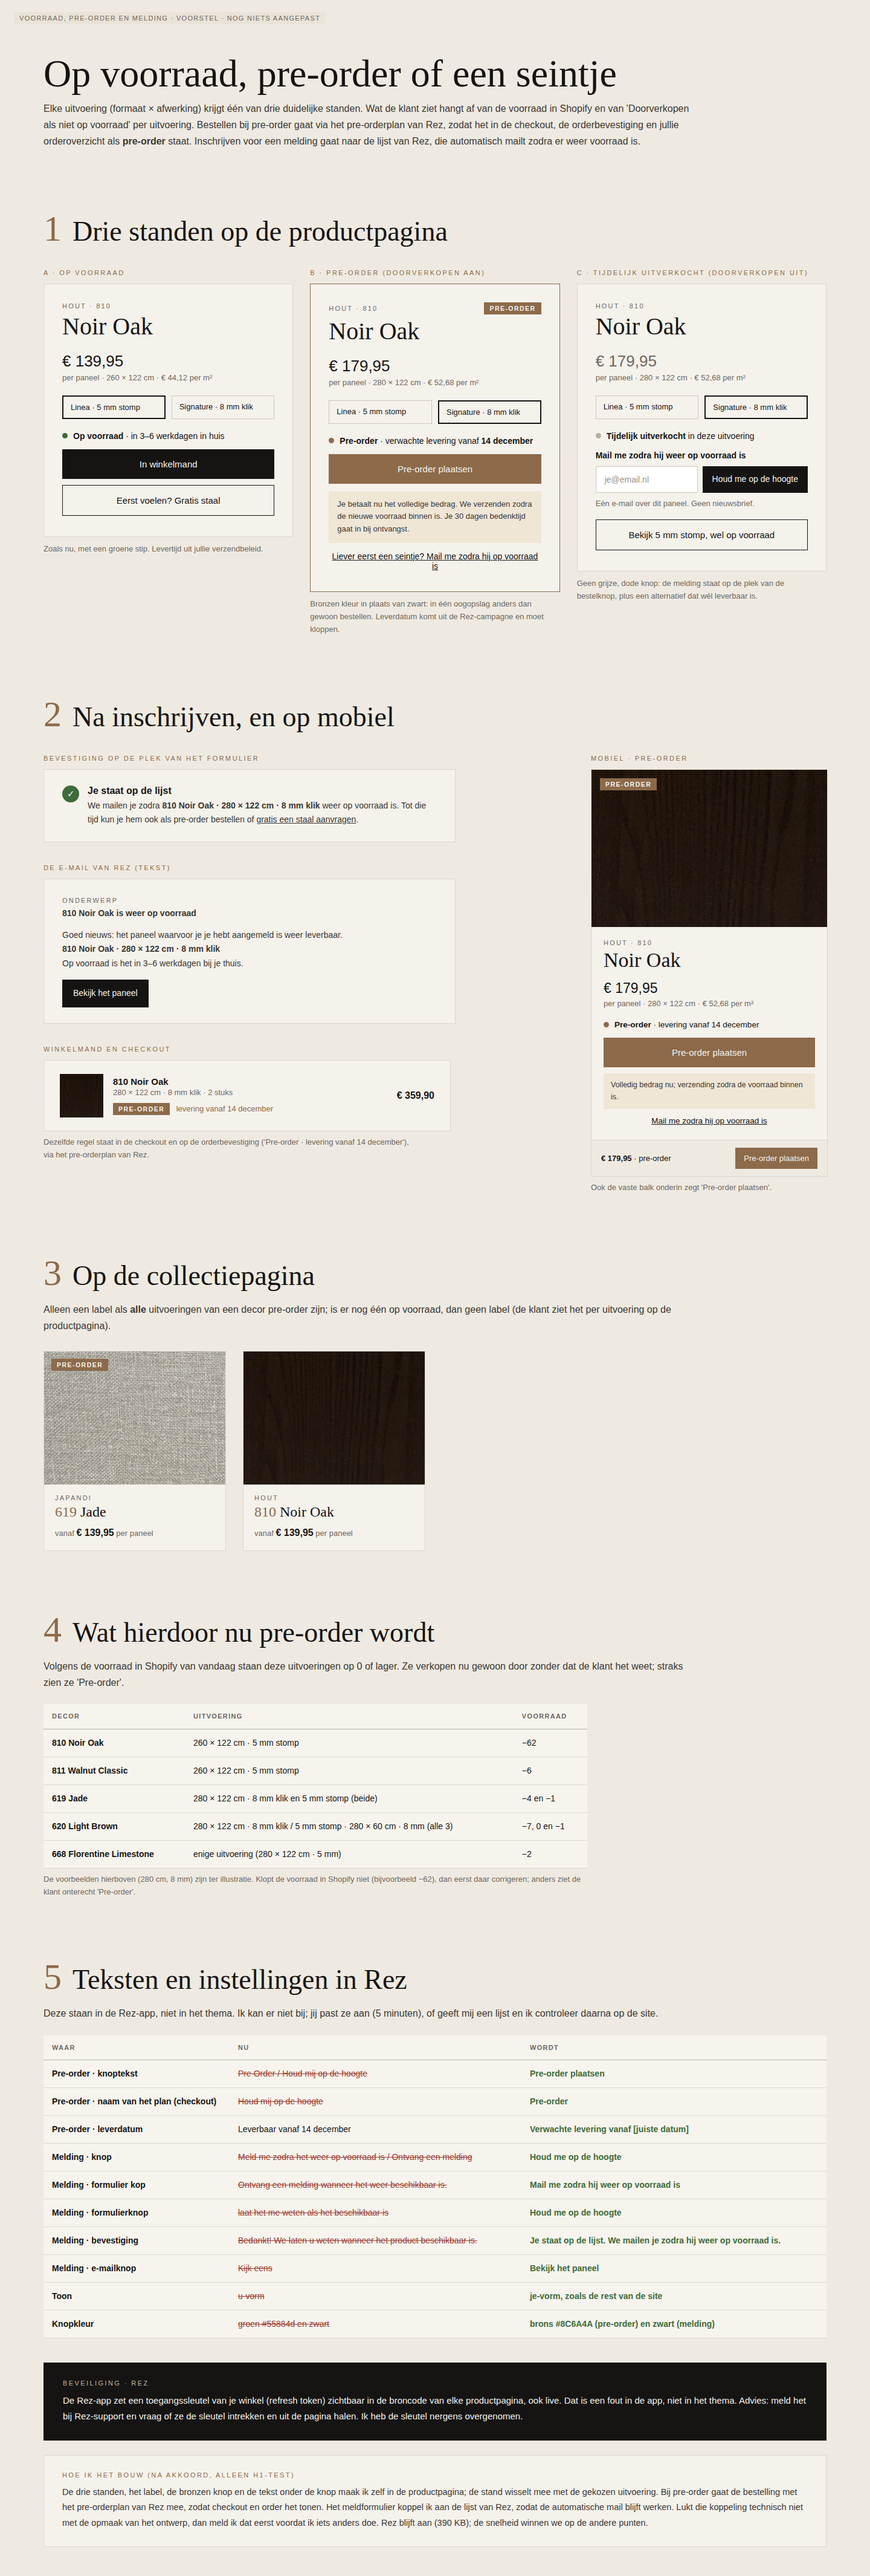
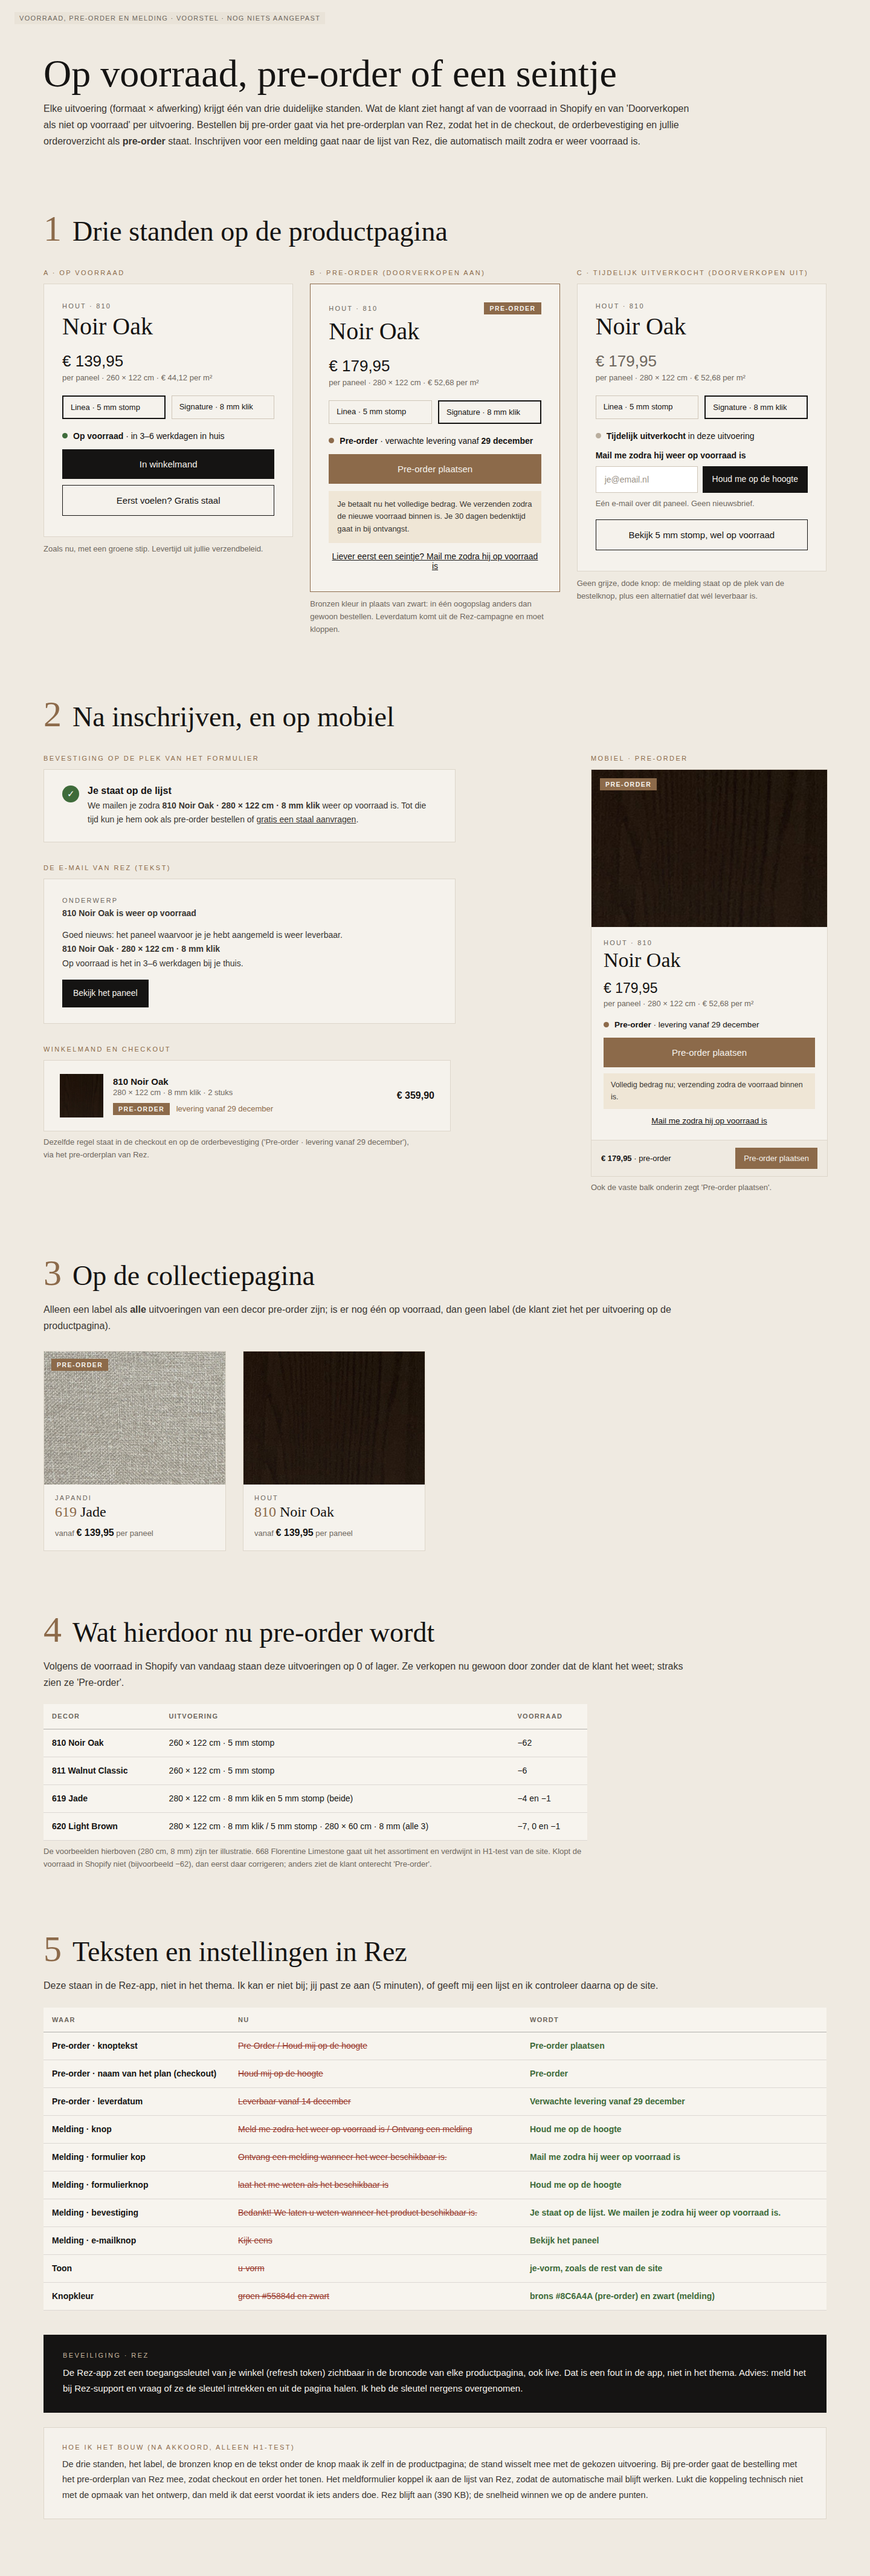
Artboard Afrekenknop (met/zonder); Voorraad: levering vanaf 29 december, 668 uit assortiment
Claude-Session: https://claude.ai/code/session_01Tr9HDAqx5rbsuHBhnEqEEG

Changed region(s): [[0.0312, 0.6556, 0.9688, 0.9991], [0.8438, 0.843, 0.875, 0.8742]]

diff --git a/docs/ontwerp-puredeco-finish/Afrekenknop.dc.html b/docs/ontwerp-puredeco-finish/Afrekenknop.dc.html
@@ -1,0 +1,129 @@
+<!doctype html>
+<html lang="nl">
+<head>
+<meta charset="utf-8">
+<title>Snelle afrekenknop</title>
+<script src="./support.js"></script>
+</head>
+<body>
+<x-dc>
+<helmet>
+<link rel="stylesheet" href="https://fonts.googleapis.com/css2?family=Cormorant:ital,wght@0,500;0,600;1,500&amp;family=Instrument+Sans:wght@400;500;600&amp;display=swap">
+<style>
+body{margin:0}
+.s{font-family:'Cormorant',Georgia,serif;font-weight:500}
+.k{font-size:11px;letter-spacing:.22em;text-transform:uppercase;color:#8C6A4A}
+.tag{position:absolute;font-size:11px;letter-spacing:.12em;text-transform:uppercase;background:#E9E3D8;color:#6E675E;padding:4px 8px;z-index:3}
+.h2{font-family:'Cormorant',Georgia,serif;font-weight:500;font-size:46px;line-height:1.05;margin:0}
+.lead{font-size:16px;line-height:1.7;color:#3A3733;max-width:1080px;margin-top:12px}
+.box{background:#F5F2EC;border:1px solid #DDD6CA}
+.note{font-size:13px;line-height:1.6;color:#6E675E}
+.eyeb{font-size:11px;letter-spacing:.2em;text-transform:uppercase;color:#6E675E}
+.fin{display:grid;grid-template-columns:1fr 1fr;gap:10px;margin-top:20px}
+.fin div{border:1px solid #CFC6B8;padding:10px 12px;font-size:13px}
+.fin div.on{border:2px solid #151413}
+.btn{display:block;text-align:center;padding:16px;font-size:15px;font-weight:500;margin-top:12px}
+.ink{background:#151413;color:#F5F2EC}
+.line{border:1px solid #151413;color:#151413}
+.shop{background:#5A31F4;color:#fff;font-weight:600;letter-spacing:.01em}
+.calc{display:grid;grid-template-columns:1fr 1fr;gap:10px;margin-top:18px}
+.calc div{border:1px solid #CFC6B8;background:#fff;padding:11px 12px;font-size:13px;color:#6E675E}
+.pro{color:#3E6B3A}.con{color:#9A3B2E}
+ul.l{margin:10px 0 0;padding-left:18px;font-size:14.5px;line-height:1.7;color:#3A3733}
+</style>
+</helmet>
+<div style="width:1440px;height:1780px;position:relative;overflow:hidden;background:#EFEAE1;color:#151413;font-family:'Instrument Sans','Helvetica Neue',Arial,sans-serif">
+<div class="tag" style="left:24px;top:20px">Snelle afrekenknop · met en zonder · nog niets aangepast</div>
+<div style="padding:90px 72px 80px">
+
+<div class="s" style="font-size:64px;line-height:1">Met of zonder snelle afrekenknop</div>
+<div class="lead">De snelle afrekenknop ('Kopen met Shop Pay', op iPhone 'Apple Pay', in Chrome 'Google Pay') slaat de winkelwagen over en gaat direct naar betalen. <b>Op de productpagina staat hij nu nergens, live ook niet.</b> Hij zit alleen in het verborgen venster 'snel bekijken', dat niemand ziet, maar laadt daardoor wel op elke pagina 385 KB code. Links hoe de productpagina er nu uitziet, rechts met de knop erbij.</div>
+
+<div style="display:grid;grid-template-columns:1fr 1fr;gap:48px;margin-top:48px;align-items:start">
+
+<!-- ZONDER -->
+<div>
+<div style="display:flex;align-items:baseline;gap:14px"><span class="s" style="font-size:52px;color:#8C6A4A">A</span><span class="s" style="font-size:38px">Zonder</span><span class="note">zoals H1-test nu · advies</span></div>
+<div class="box" style="padding:34px 36px 38px;margin-top:16px">
+<div class="eyeb">Hout · 810</div>
+<div class="s" style="font-size:44px;line-height:1;margin-top:8px">Noir Oak</div>
+<div style="font-size:26px;font-weight:500;margin-top:22px">€ 179,95</div>
+<div class="note">per paneel · 280 × 122 cm · € 52,68 per m²</div>
+<div class="fin"><div>Linea · 5 mm stomp</div><div class="on">Signature · 8 mm klik</div></div>
+<div class="calc"><div>Breedte wand · 4,50 m</div><div>Hoogte · 2,60 m</div></div>
+<div style="font-size:14px;margin-top:12px"><b>4 panelen</b> · € 719,80</div>
+<div style="display:flex;align-items:center;gap:9px;font-size:14px;margin-top:16px"><span style="width:9px;height:9px;border-radius:50%;background:#3E6B3A"></span><span><b>Op voorraad</b> · in 3–6 werkdagen in huis</span></div>
+<div class="btn ink">In winkelmand</div>
+<div class="btn line" style="margin-top:10px">Eerst voelen? Gratis staal</div>
+<div class="note" style="margin-top:14px;text-align:center">In de winkelwagen en checkout: iDEAL, Shop Pay, Apple Pay, Google Pay en meer.</div>
+</div>
+<ul class="l">
+<li class="pro">Rustig en premium: één duidelijke knop, staal als tweede stap.</li>
+<li class="pro">Klant ziet in de winkelwagen nog montagekit en profielen; minder kans op vergeten accessoires.</li>
+<li class="pro">385 KB minder code op elke pagina (sneller, vooral mobiel).</li>
+<li class="con">Eén klik meer voor wie meteen wil betalen.</li>
+</ul>
+</div>
+
+<!-- MET -->
+<div>
+<div style="display:flex;align-items:baseline;gap:14px"><span class="s" style="font-size:52px;color:#8C6A4A">B</span><span class="s" style="font-size:38px">Met snelle afrekenknop</span></div>
+<div class="box" style="padding:34px 36px 38px;margin-top:16px">
+<div class="eyeb">Hout · 810</div>
+<div class="s" style="font-size:44px;line-height:1;margin-top:8px">Noir Oak</div>
+<div style="font-size:26px;font-weight:500;margin-top:22px">€ 179,95</div>
+<div class="note">per paneel · 280 × 122 cm · € 52,68 per m²</div>
+<div class="fin"><div>Linea · 5 mm stomp</div><div class="on">Signature · 8 mm klik</div></div>
+<div class="calc"><div>Breedte wand · 4,50 m</div><div>Hoogte · 2,60 m</div></div>
+<div style="font-size:14px;margin-top:12px"><b>4 panelen</b> · € 719,80</div>
+<div style="display:flex;align-items:center;gap:9px;font-size:14px;margin-top:16px"><span style="width:9px;height:9px;border-radius:50%;background:#3E6B3A"></span><span><b>Op voorraad</b> · in 3–6 werkdagen in huis</span></div>
+<div class="btn line">In winkelmand</div>
+<div class="btn shop">Kopen met <span style="font-style:italic;font-weight:700">shop</span></div>
+<div style="text-align:center;font-size:13px;margin-top:8px"><u>Meer betaalopties</u></div>
+<div class="btn line" style="margin-top:12px;border-color:#CFC6B8;color:#6E675E">Eerst voelen? Gratis staal</div>
+</div>
+<ul class="l">
+<li class="pro">Snel afrekenen voor wie al een Shop Pay-, Apple Pay- of Google Pay-account heeft.</li>
+<li class="con">De paarse (of zwarte Apple Pay) knop valt op en trekt de aandacht weg van 'In winkelmand' en het gratis staal; minder rustig.</li>
+<li class="con">Slaat de winkelwagen over: geen montagekit of profielen erbij.</li>
+<li class="con">385 KB extra code op de productpagina.</li>
+<li class="con">Kleur en vorm van de knop bepaalt Shopify; alleen beperkt aan te passen.</li>
+</ul>
+</div>
+</div>
+
+<!-- Mobiel -->
+<div style="margin-top:80px;display:flex;align-items:baseline;gap:18px"><span class="s" style="font-size:60px;color:#8C6A4A">·</span><span class="h2">Op mobiel</span></div>
+<div style="display:flex;gap:48px;margin-top:28px;align-items:flex-start">
+<div>
+<div class="k" style="margin-bottom:10px">A · Zonder</div>
+<div style="width:360px;background:#F5F2EC;border:1px solid #DDD6CA;padding:20px">
+<div style="font-size:23px;font-weight:500">€ 179,95</div><div class="note">per paneel · € 52,68 per m²</div>
+<div class="btn ink">In winkelmand</div>
+<div class="btn line" style="margin-top:8px">Eerst voelen? Gratis staal</div>
+</div>
+<div style="width:360px;border:1px solid #DDD6CA;border-top:0;background:#EFEAE1;padding:12px 20px;display:flex;justify-content:space-between;align-items:center;font-size:13px"><span><b>€ 179,95</b> · 8 mm</span><span style="background:#151413;color:#F5F2EC;padding:10px 14px">In winkelmand</span></div>
+</div>
+<div>
+<div class="k" style="margin-bottom:10px">B · Met</div>
+<div style="width:360px;background:#F5F2EC;border:1px solid #DDD6CA;padding:20px">
+<div style="font-size:23px;font-weight:500">€ 179,95</div><div class="note">per paneel · € 52,68 per m²</div>
+<div class="btn line">In winkelmand</div>
+<div class="btn" style="background:#000;color:#fff;font-weight:600">Apple Pay</div>
+<div style="text-align:center;font-size:12.5px;margin-top:6px"><u>Meer betaalopties</u></div>
+<div class="btn line" style="margin-top:8px;border-color:#CFC6B8;color:#6E675E">Eerst voelen? Gratis staal</div>
+</div>
+<div class="note" style="width:360px;margin-top:8px">Op een iPhone wordt het de zwarte Apple Pay-knop, op Android Google Pay, elders Shop Pay.</div>
+</div>
+<div style="flex:1;padding-top:30px">
+<div class="box" style="padding:26px 30px">
+<div class="k">Advies</div>
+<div style="font-size:15px;line-height:1.7;color:#3A3733;margin-top:10px"><b>A, zonder.</b> Panelen koop je na het uitrekenen van je wand en vaak samen met montagekit en profielen; de winkelwagen helpt daarbij en alle snelle betaalmethodes staan in de checkout. Het verborgen 'snel bekijken' gaat eruit, en daarmee de 385 KB. Kies je toch B, dan zet ik de knop onder 'In winkelmand' zoals rechts.</div>
+</div>
+</div>
+</div>
+
+</div></div>
+</x-dc>
+</body>
+</html>

diff --git a/docs/ontwerp-puredeco-finish/Voorraad.dc.html b/docs/ontwerp-puredeco-finish/Voorraad.dc.html
@@ -78,7 +78,7 @@ body{margin:0}
 <div class="price" style="margin-top:22px">€ 179,95</div>
 <div class="unit">per paneel · 280 × 122 cm · € 52,68 per m²</div>
 <div class="fin"><div>Linea · 5 mm stomp</div><div class="on">Signature · 8 mm klik</div></div>
-<div class="stock"><span class="dot" style="background:#8C6A4A"></span><span><b>Pre-order</b> · verwachte levering vanaf <b>14 december</b></span></div>
+<div class="stock"><span class="dot" style="background:#8C6A4A"></span><span><b>Pre-order</b> · verwachte levering vanaf <b>29 december</b></span></div>
 <div class="btn btn-ink" style="background:#8C6A4A">Pre-order plaatsen</div>
 <div style="font-size:13px;line-height:1.6;color:#3A3733;margin-top:12px;background:#EFE6D6;padding:12px 14px">Je betaalt nu het volledige bedrag. We verzenden zodra de nieuwe voorraad binnen is. Je 30 dagen bedenktijd gaat in bij ontvangst.</div>
 <div style="margin-top:14px;font-size:14px;text-align:center"><u>Liever eerst een seintje? Mail me zodra hij op voorraad is</u></div>
@@ -122,10 +122,10 @@ Goed nieuws: het paneel waarvoor je je hebt aangemeld is weer leverbaar.<br><b>8
 <div class="k" style="margin:36px 0 12px">Winkelmand en checkout</div>
 <div class="box" style="padding:22px 26px;max-width:620px;display:grid;grid-template-columns:72px 1fr auto;gap:16px;align-items:center">
 <div style="width:72px;height:72px;background:url(../../media/stalen/staal-810.jpg) center/cover"></div>
-<div><div style="font-weight:600;font-size:15px">810 Noir Oak</div><div class="note">280 × 122 cm · 8 mm klik · 2 stuks</div><div style="margin-top:6px"><span class="pill pre">Pre-order</span> <span style="font-size:13px;color:#8C6A4A;margin-left:6px">levering vanaf 14 december</span></div></div>
+<div><div style="font-weight:600;font-size:15px">810 Noir Oak</div><div class="note">280 × 122 cm · 8 mm klik · 2 stuks</div><div style="margin-top:6px"><span class="pill pre">Pre-order</span> <span style="font-size:13px;color:#8C6A4A;margin-left:6px">levering vanaf 29 december</span></div></div>
 <div style="font-weight:600">€ 359,90</div>
 </div>
-<div class="note" style="margin-top:8px;max-width:620px">Dezelfde regel staat in de checkout en op de orderbevestiging ('Pre-order · levering vanaf 14 december'), via het pre-orderplan van Rez.</div>
+<div class="note" style="margin-top:8px;max-width:620px">Dezelfde regel staat in de checkout en op de orderbevestiging ('Pre-order · levering vanaf 29 december'), via het pre-orderplan van Rez.</div>
 </div>
 
 <!-- mobiel -->
@@ -138,7 +138,7 @@ Goed nieuws: het paneel waarvoor je je hebt aangemeld is weer leverbaar.<br><b>8
 <div class="s" style="font-size:34px;line-height:1;margin-top:6px">Noir Oak</div>
 <div class="price" style="margin-top:16px;font-size:23px">€ 179,95</div>
 <div class="unit">per paneel · 280 × 122 cm · € 52,68 per m²</div>
-<div class="stock" style="font-size:13.5px"><span class="dot" style="background:#8C6A4A"></span><span><b>Pre-order</b> · levering vanaf 14 december</span></div>
+<div class="stock" style="font-size:13.5px"><span class="dot" style="background:#8C6A4A"></span><span><b>Pre-order</b> · levering vanaf 29 december</span></div>
 <div class="btn" style="background:#8C6A4A;color:#F5F2EC">Pre-order plaatsen</div>
 <div style="font-size:12.5px;line-height:1.55;color:#3A3733;margin-top:10px;background:#EFE6D6;padding:10px 12px">Volledig bedrag nu; verzending zodra de voorraad binnen is.</div>
 <div style="margin-top:12px;font-size:13.5px;text-align:center"><u>Mail me zodra hij op voorraad is</u></div>
@@ -167,9 +167,9 @@ Goed nieuws: het paneel waarvoor je je hebt aangemeld is weer leverbaar.<br><b>8
 <tr><th>811 Walnut Classic</th><td>260 × 122 cm · 5 mm stomp</td><td>−6</td></tr>
 <tr><th>619 Jade</th><td>280 × 122 cm · 8 mm klik en 5 mm stomp (beide)</td><td>−4 en −1</td></tr>
 <tr><th>620 Light Brown</th><td>280 × 122 cm · 8 mm klik / 5 mm stomp · 280 × 60 cm · 8 mm (alle 3)</td><td>−7, 0 en −1</td></tr>
-<tr><th>668 Florentine Limestone</th><td>enige uitvoering (280 × 122 cm · 5 mm)</td><td>−2</td></tr>
+
 </tbody></table>
-<div class="note" style="margin-top:8px;max-width:900px">De voorbeelden hierboven (280 cm, 8 mm) zijn ter illustratie. Klopt de voorraad in Shopify niet (bijvoorbeeld −62), dan eerst daar corrigeren; anders ziet de klant onterecht 'Pre-order'.</div>
+<div class="note" style="margin-top:8px;max-width:900px">De voorbeelden hierboven (280 cm, 8 mm) zijn ter illustratie. 668 Florentine Limestone gaat uit het assortiment en verdwijnt in H1-test van de site. Klopt de voorraad in Shopify niet (bijvoorbeeld −62), dan eerst daar corrigeren; anders ziet de klant onterecht 'Pre-order'.</div>
 
 <!-- 5 · Rez-instellingen -->
 <div class="sec num"><b>5</b><span class="h2">Teksten en instellingen in Rez</span></div>
@@ -179,7 +179,7 @@ Goed nieuws: het paneel waarvoor je je hebt aangemeld is weer leverbaar.<br><b>8
 <tbody>
 <tr><th>Pre-order · knoptekst</th><td class="old">Pre Order / Houd mij op de hoogte</td><td class="new">Pre-order plaatsen</td></tr>
 <tr><th>Pre-order · naam van het plan (checkout)</th><td class="old">Houd mij op de hoogte</td><td class="new">Pre-order</td></tr>
-<tr><th>Pre-order · leverdatum</th><td>Leverbaar vanaf 14 december</td><td class="new">Verwachte levering vanaf [juiste datum]</td></tr>
+<tr><th>Pre-order · leverdatum</th><td class="old">Leverbaar vanaf 14 december</td><td class="new">Verwachte levering vanaf 29 december</td></tr>
 <tr><th>Melding · knop</th><td class="old">Meld me zodra het weer op voorraad is / Ontvang een melding</td><td class="new">Houd me op de hoogte</td></tr>
 <tr><th>Melding · formulier kop</th><td class="old">Ontvang een melding wanneer het weer beschikbaar is.</td><td class="new">Mail me zodra hij weer op voorraad is</td></tr>
 <tr><th>Melding · formulierknop</th><td class="old">laat het me weten als het beschikbaar is</td><td class="new">Houd me op de hoogte</td></tr>
